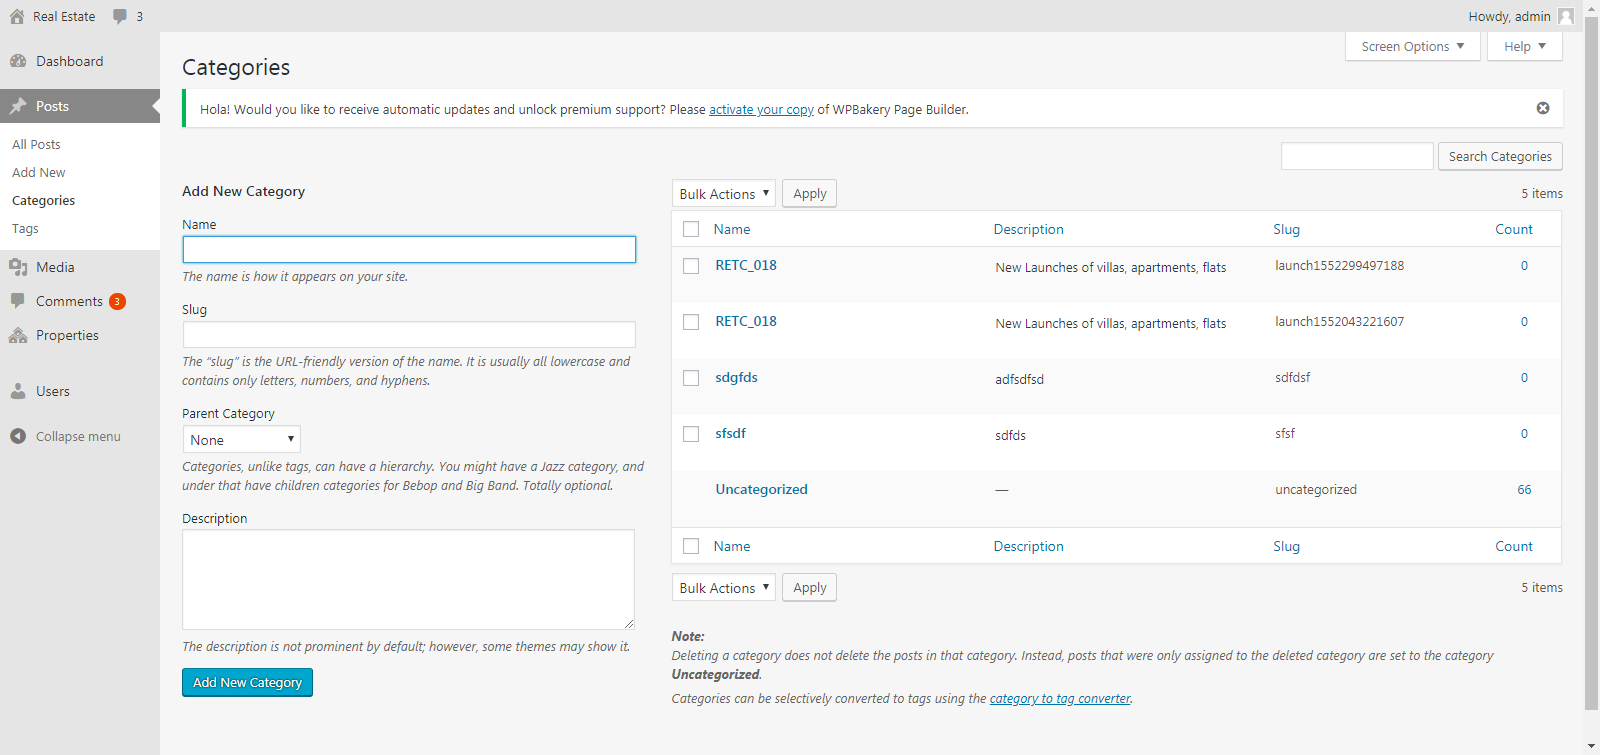
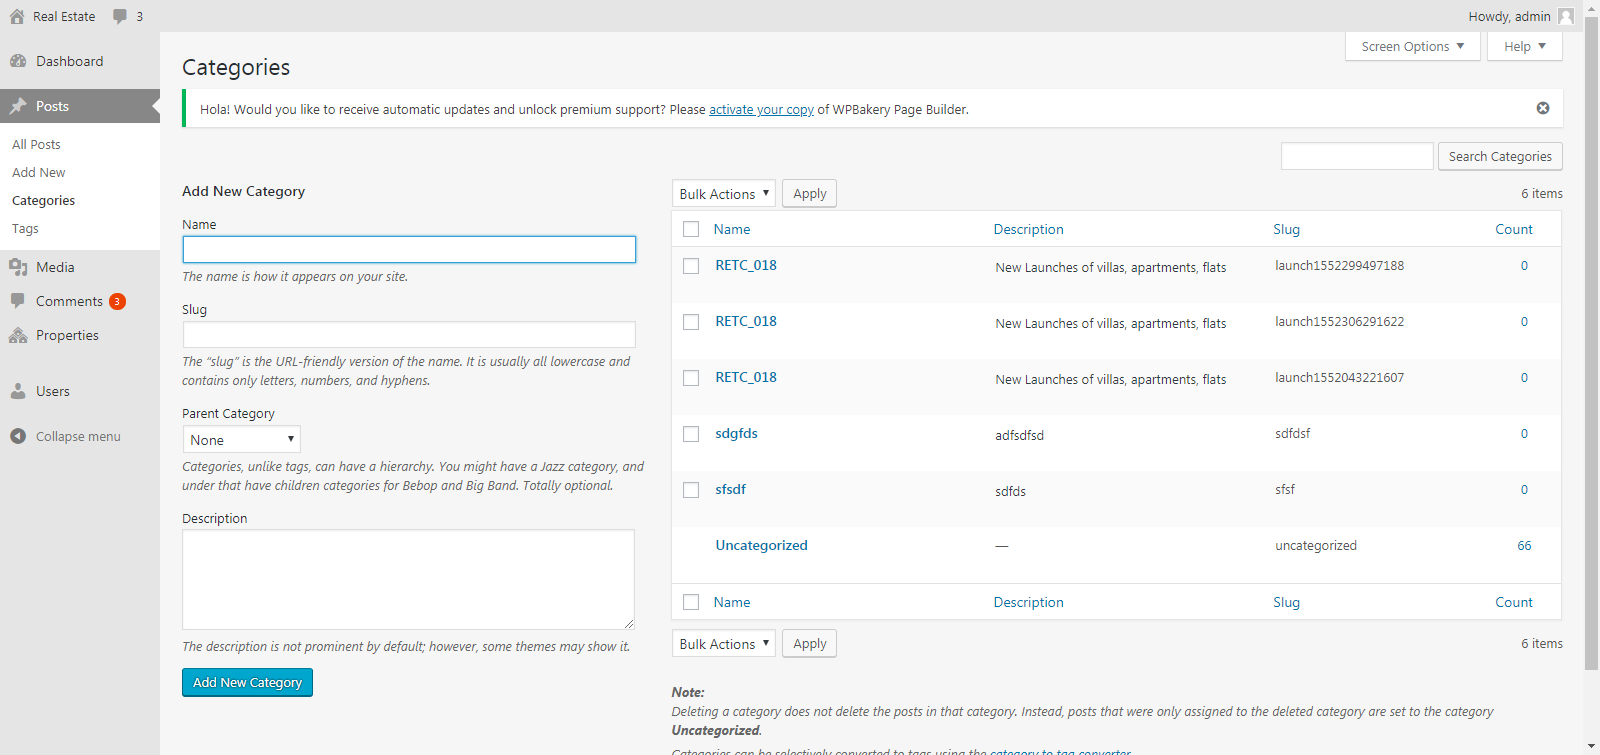
Updated after 1st run

diff --git a/Selenium-Automation-Elearning-Framework-TestNG/report/RETC_018.html b/Selenium-Automation-Elearning-Framework-TestNG/report/RETC_018.html
@@ -53,7 +53,7 @@
 					<i class='mdi-hardware-desktop-windows'></i>
 				</li>
 				<li>
-					<span class='suite-started-time'>2019-03-11 15:48:23</span>
+					<span class='suite-started-time'>2019-03-11 17:41:37</span>
 				</li>
 				<li>
 					<span>v2.41.1</span>
@@ -83,25 +83,25 @@
 					<div class='col l2 m4 s12'>
 						<div class='card suite-total-time-current'> 
 							<span class='panel-name'>Total Time Taken (Current Run)</span> 
-							<span class='suite-total-time-current-value panel-lead'>0h 0m 49s+286ms</span> 
+							<span class='suite-total-time-current-value panel-lead'>0h 0m 55s+555ms</span> 
 						</div> 
 					</div>
 					<div class='col l2 m4 s12'>
 						<div class='card suite-total-time-overall'> 
 							<span class='panel-name'>Total Time Taken (Overall)</span> 
-							<span class='suite-total-time-overall-value panel-lead'>0h 0m 49s+286ms</span> 
+							<span class='suite-total-time-overall-value panel-lead'>0h 0m 55s+555ms</span> 
 						</div> 
 					</div>
 					<div class='col l2 m4 s6 suite-start-time'>
 						<div class='card accent green-accent'> 
 							<span class='panel-name'>Start</span> 
-							<span class='panel-lead suite-started-time'>2019-03-11 15:47:34</span> 
+							<span class='panel-lead suite-started-time'>2019-03-11 17:40:41</span> 
 						</div> 
 					</div>
 					<div class='col l2 m4 s6 suite-end-time'>
 						<div class='card accent pink-accent'> 
 							<span class='panel-name'>End</span> 
-							<span class='panel-lead suite-ended-time'>2019-03-11 15:48:23</span> 
+							<span class='panel-lead suite-ended-time'>2019-03-11 17:41:37</span> 
 						</div> 
 					</div>
 				</div>
@@ -237,7 +237,7 @@
 						<div class='card-panel no-padding-h no-padding-v no-margin-v'>
 							<div class='wrapper'>
 								<ul id='test-collection' class='test-collection'>
-										<li class='collection-item test displayed active pass ' extentid='384439d2-22c4-4eec-b858-bcebeaefe08c'>
+										<li class='collection-item test displayed active pass ' extentid='b585d45a-8aa6-458b-ac5f-d1e737df6378'>
 											<div class='test-head'>
 												<span class='test-name'>Test Case name: RETC_018 </span>
 												<span class='test-status label right outline capitalize pass'>pass</span>
@@ -245,9 +245,9 @@
 											</div>
 											<div class='test-body'>
 												<div class='test-info'>
-													<span title='Test started time' alt='Test started time' class='test-started-time label green lighten-1 text-white'>2019-03-11 15:47:34</span>
-													<span title='Test ended time' alt='Test ended time' class='test-ended-time label red lighten-1 text-white'>2019-03-11 15:48:23</span>
-													<span title='Time taken to finish' alt='Time taken to finish' class='test-time-taken label blue-grey lighten-3 text-white'>0h 0m 48s+907ms</span>
+													<span title='Test started time' alt='Test started time' class='test-started-time label green lighten-1 text-white'>2019-03-11 17:40:41</span>
+													<span title='Test ended time' alt='Test ended time' class='test-ended-time label red lighten-1 text-white'>2019-03-11 17:41:36</span>
+													<span title='Time taken to finish' alt='Time taken to finish' class='test-time-taken label blue-grey lighten-3 text-white'>0h 0m 55s+181ms</span>
 												</div>
 												<div class='test-desc'></div>
 												<div class='test-attributes'>
@@ -265,73 +265,73 @@
 														<tbody>
 																<tr>
 																	<td class='status info' title='info' alt='info'><i class='mdi-action-info-outline'></i></td>
-																	<td class='timestamp'>15:47:57</td>
+																	<td class='timestamp'>17:41:09</td>
 																		<td class='step-name'>Pre-Condition 1:</td>
 																	<td class='step-details'>User launched the application by entering valid URL</td>
 																</tr>
 																<tr>
 																	<td class='status info' title='info' alt='info'><i class='mdi-action-info-outline'></i></td>
-																	<td class='timestamp'>15:48:06</td>
+																	<td class='timestamp'>17:41:17</td>
 																		<td class='step-name'>Pre-Condition 2:</td>
 																	<td class='step-details'>Admin logged in.</td>
 																</tr>
 																<tr>
 																	<td class='status info' title='info' alt='info'><i class='mdi-action-info-outline'></i></td>
-																	<td class='timestamp'>15:48:12</td>
+																	<td class='timestamp'>17:41:25</td>
 																		<td class='step-name'>Test Step 1.</td>
 																	<td class='step-details'>Clicked on Posts link</td>
 																</tr>
 																<tr>
 																	<td class='status info' title='info' alt='info'><i class='mdi-action-info-outline'></i></td>
-																	<td class='timestamp'>15:48:16</td>
+																	<td class='timestamp'>17:41:30</td>
 																		<td class='step-name'>Test Step 2.</td>
 																	<td class='step-details'>Clicked on Categories link</td>
 																</tr>
 																<tr>
 																	<td class='status info' title='info' alt='info'><i class='mdi-action-info-outline'></i></td>
-																	<td class='timestamp'>15:48:16</td>
+																	<td class='timestamp'>17:41:31</td>
 																		<td class='step-name'>No. of items before Adding Category</td>
-																	<td class='step-details'>4 items</td>
+																	<td class='step-details'>5 items</td>
 																</tr>
 																<tr>
 																	<td class='status info' title='info' alt='info'><i class='mdi-action-info-outline'></i></td>
-																	<td class='timestamp'>15:48:17</td>
+																	<td class='timestamp'>17:41:31</td>
 																		<td class='step-name'>Test Step 3.</td>
 																	<td class='step-details'>Entered Valid Credentials in Name textbox</td>
 																</tr>
 																<tr>
 																	<td class='status info' title='info' alt='info'><i class='mdi-action-info-outline'></i></td>
-																	<td class='timestamp'>15:48:17</td>
+																	<td class='timestamp'>17:41:31</td>
 																		<td class='step-name'>Test Step 4.</td>
 																	<td class='step-details'>Entered Valid Credentials in Slug textbox</td>
 																</tr>
 																<tr>
 																	<td class='status info' title='info' alt='info'><i class='mdi-action-info-outline'></i></td>
-																	<td class='timestamp'>15:48:19</td>
+																	<td class='timestamp'>17:41:34</td>
 																		<td class='step-name'>Test Step 5.</td>
 																	<td class='step-details'>Entered Valid Credentials in Description textbox</td>
 																</tr>
 																<tr>
 																	<td class='status info' title='info' alt='info'><i class='mdi-action-info-outline'></i></td>
-																	<td class='timestamp'>15:48:20</td>
+																	<td class='timestamp'>17:41:34</td>
 																		<td class='step-name'>Test Step 6.</td>
 																	<td class='step-details'>Clicked on Add New Category button</td>
 																</tr>
 																<tr>
 																	<td class='status info' title='info' alt='info'><i class='mdi-action-info-outline'></i></td>
-																	<td class='timestamp'>15:48:22</td>
+																	<td class='timestamp'>17:41:35</td>
 																		<td class='step-name'>Refresh Page</td>
 																	<td class='step-details'>Refreshed page to get added category on the table</td>
 																</tr>
 																<tr>
 																	<td class='status info' title='info' alt='info'><i class='mdi-action-info-outline'></i></td>
-																	<td class='timestamp'>15:48:22</td>
+																	<td class='timestamp'>17:41:35</td>
 																		<td class='step-name'>No. of items after Adding Category</td>
-																	<td class='step-details'>5 items</td>
+																	<td class='step-details'>6 items</td>
 																</tr>
 																<tr>
 																	<td class='status pass' title='pass' alt='pass'><i class='mdi-action-check-circle'></i></td>
-																	<td class='timestamp'>15:48:22</td>
+																	<td class='timestamp'>17:41:36</td>
 																		<td class='step-name'>Test Passed</td>
 																	<td class='step-details'>Added category in existing categories module is displayed</td>
 																</tr>

diff --git a/Selenium-Automation-Elearning-Framework-TestNG/test-output/index.html b/Selenium-Automation-Elearning-Framework-TestNG/test-output/index.html
@@ -49,7 +49,7 @@
               <ul>
                 <li>
                   <a href="#" class="navigator-link " panel-name="test-xml-Default_suite">
-                    <span>C:\Users\IBM_ADMIN\AppData\Local\Temp\testng-eclipse-678091908\testng-customsuite.xml</span>
+                    <span>C:\Users\IBM_ADMIN\AppData\Local\Temp\testng-eclipse--1451025380\testng-customsuite.xml</span>
                   </a> <!-- navigator-link  -->
                 </li>
                 <li>
@@ -135,7 +135,7 @@
         </div> <!-- panel Default_suite -->
         <div panel-name="test-xml-Default_suite" class="panel">
           <div class="main-panel-header rounded-window-top">
-            <span class="header-content">C:\Users\IBM_ADMIN\AppData\Local\Temp\testng-eclipse-678091908\testng-customsuite.xml</span>
+            <span class="header-content">C:\Users\IBM_ADMIN\AppData\Local\Temp\testng-eclipse--1451025380\testng-customsuite.xml</span>
           </div> <!-- main-panel-header rounded-window-top -->
           <div class="main-panel-content rounded-window-bottom">
             <pre>
@@ -188,12 +188,12 @@ data.addRows(1);
 data.setCell(0, 0, 0)
 data.setCell(0, 1, 'Functional_Test_RETC_018')
 data.setCell(0, 2, 'com.training.functional.tests.RETC_018')
-data.setCell(0, 3, 16343);
+data.setCell(0, 3, 18991);
 window.suiteTableData['Default_suite']= { tableData: data, tableDiv: 'times-div-Default_suite'}
 return data;
 }
               </script>
-              <span class="suite-total-time">Total running time: 16 seconds</span>
+              <span class="suite-total-time">Total running time: 18 seconds</span>
               <div id="times-div-Default_suite">
               </div> <!-- times-div-Default_suite -->
             </div> <!-- times-div -->
@@ -226,11 +226,11 @@ return data;
               </div> <!-- configuration-test before -->
               <div class="test-method">
                 <span class="method-name">Functional_Test_RETC_018</span>
-                <span class="method-start">37357 ms</span>
+                <span class="method-start">40283 ms</span>
               </div> <!-- test-method -->
               <div class="configuration-test after">
                 <span class="method-name">tearDown</span>
-                <span class="method-start">53700 ms</span>
+                <span class="method-start">59290 ms</span>
               </div> <!-- configuration-test after -->
           </div> <!-- main-panel-content rounded-window-bottom -->
         </div> <!-- panel -->

diff --git a/Selenium-Automation-Elearning-Framework-TestNG/test-output/old/Default suite/methods-alphabetical.html b/Selenium-Automation-Elearning-Framework-TestNG/test-output/old/Default suite/methods-alphabetical.html
@@ -1,10 +1,10 @@
 <h2>Methods run, sorted chronologically</h2><h3>&gt;&gt; means before, &lt;&lt; means after</h3><p/><br/><em>Default suite</em><p/><small><i>(Hover the method name to see the test class name)</i></small><p/>
 <table border="1">
 <tr><th>Time</th><th>Delta (ms)</th><th>Suite<br>configuration</th><th>Test<br>configuration</th><th>Class<br>configuration</th><th>Groups<br>configuration</th><th>Method<br>configuration</th><th>Test<br>method</th><th>Thread</th><th>Instances</th></tr>
-<tr bgcolor="756ead">  <td>19/03/11 15:48:07</td>   <td>0</td> <td>&nbsp;</td><td>&nbsp;</td><td>&nbsp;</td><td>&nbsp;</td><td>&nbsp;</td><td title="RETC_018.Functional_Test_RETC_018()[pri:0, instance:com.training.functional.tests.RETC_018@6a41eaa2]">Functional_Test_RETC_018</td> 
+<tr bgcolor="756ead">  <td>19/03/11 17:41:18</td>   <td>0</td> <td>&nbsp;</td><td>&nbsp;</td><td>&nbsp;</td><td>&nbsp;</td><td>&nbsp;</td><td title="RETC_018.Functional_Test_RETC_018()[pri:0, instance:com.training.functional.tests.RETC_018@6a41eaa2]">Functional_Test_RETC_018</td> 
   <td>main@1776957250</td>   <td></td> </tr>
-<tr bgcolor="756ead">  <td>19/03/11 15:47:29</td>   <td>-37341</td> <td>&nbsp;</td><td title="&gt;&gt;RETC_018.setUp()[pri:0, instance:com.training.functional.tests.RETC_018@6a41eaa2]">&gt;&gt;setUp</td> 
+<tr bgcolor="756ead">  <td>19/03/11 17:40:37</td>   <td>-40267</td> <td>&nbsp;</td><td title="&gt;&gt;RETC_018.setUp()[pri:0, instance:com.training.functional.tests.RETC_018@6a41eaa2]">&gt;&gt;setUp</td> 
 <td>&nbsp;</td><td>&nbsp;</td><td>&nbsp;</td><td>&nbsp;</td>  <td>main@1776957250</td>   <td></td> </tr>
-<tr bgcolor="756ead">  <td>19/03/11 15:48:23</td>   <td>16343</td> <td>&nbsp;</td><td title="&lt;&lt;RETC_018.tearDown()[pri:0, instance:com.training.functional.tests.RETC_018@6a41eaa2]">&lt;&lt;tearDown</td> 
+<tr bgcolor="756ead">  <td>19/03/11 17:41:37</td>   <td>19007</td> <td>&nbsp;</td><td title="&lt;&lt;RETC_018.tearDown()[pri:0, instance:com.training.functional.tests.RETC_018@6a41eaa2]">&lt;&lt;tearDown</td> 
 <td>&nbsp;</td><td>&nbsp;</td><td>&nbsp;</td><td>&nbsp;</td>  <td>main@1776957250</td>   <td></td> </tr>
 </table>

diff --git a/Selenium-Automation-Elearning-Framework-TestNG/test-output/old/Default suite/methods.html b/Selenium-Automation-Elearning-Framework-TestNG/test-output/old/Default suite/methods.html
@@ -1,10 +1,10 @@
 <h2>Methods run, sorted chronologically</h2><h3>&gt;&gt; means before, &lt;&lt; means after</h3><p/><br/><em>Default suite</em><p/><small><i>(Hover the method name to see the test class name)</i></small><p/>
 <table border="1">
 <tr><th>Time</th><th>Delta (ms)</th><th>Suite<br>configuration</th><th>Test<br>configuration</th><th>Class<br>configuration</th><th>Groups<br>configuration</th><th>Method<br>configuration</th><th>Test<br>method</th><th>Thread</th><th>Instances</th></tr>
-<tr bgcolor="756ead">  <td>19/03/11 15:47:29</td>   <td>0</td> <td>&nbsp;</td><td title="&gt;&gt;RETC_018.setUp()[pri:0, instance:com.training.functional.tests.RETC_018@6a41eaa2]">&gt;&gt;setUp</td> 
+<tr bgcolor="756ead">  <td>19/03/11 17:40:37</td>   <td>0</td> <td>&nbsp;</td><td title="&gt;&gt;RETC_018.setUp()[pri:0, instance:com.training.functional.tests.RETC_018@6a41eaa2]">&gt;&gt;setUp</td> 
 <td>&nbsp;</td><td>&nbsp;</td><td>&nbsp;</td><td>&nbsp;</td>  <td>main@1776957250</td>   <td></td> </tr>
-<tr bgcolor="756ead">  <td>19/03/11 15:48:07</td>   <td>37341</td> <td>&nbsp;</td><td>&nbsp;</td><td>&nbsp;</td><td>&nbsp;</td><td>&nbsp;</td><td title="RETC_018.Functional_Test_RETC_018()[pri:0, instance:com.training.functional.tests.RETC_018@6a41eaa2]">Functional_Test_RETC_018</td> 
+<tr bgcolor="756ead">  <td>19/03/11 17:41:18</td>   <td>40267</td> <td>&nbsp;</td><td>&nbsp;</td><td>&nbsp;</td><td>&nbsp;</td><td>&nbsp;</td><td title="RETC_018.Functional_Test_RETC_018()[pri:0, instance:com.training.functional.tests.RETC_018@6a41eaa2]">Functional_Test_RETC_018</td> 
   <td>main@1776957250</td>   <td></td> </tr>
-<tr bgcolor="756ead">  <td>19/03/11 15:48:23</td>   <td>53684</td> <td>&nbsp;</td><td title="&lt;&lt;RETC_018.tearDown()[pri:0, instance:com.training.functional.tests.RETC_018@6a41eaa2]">&lt;&lt;tearDown</td> 
+<tr bgcolor="756ead">  <td>19/03/11 17:41:37</td>   <td>59274</td> <td>&nbsp;</td><td title="&lt;&lt;RETC_018.tearDown()[pri:0, instance:com.training.functional.tests.RETC_018@6a41eaa2]">&lt;&lt;tearDown</td> 
 <td>&nbsp;</td><td>&nbsp;</td><td>&nbsp;</td><td>&nbsp;</td>  <td>main@1776957250</td>   <td></td> </tr>
 </table>

diff --git a/Selenium-Automation-Elearning-Framework-TestNG/test-output/emailable-report.html b/Selenium-Automation-Elearning-Framework-TestNG/test-output/emailable-report.html
@@ -9,9 +9,9 @@
 <table>
 <tr><th>Test</th><th># Passed</th><th># Skipped</th><th># Failed</th><th>Time (ms)</th><th>Included Groups</th><th>Excluded Groups</th></tr>
 <tr><th colspan="7">Default suite</th></tr>
-<tr><td><a href="#t0">Default test</a></td><td class="num">1</td><td class="num">0</td><td class="num">0</td><td class="num">55,845</td><td></td><td></td></tr>
+<tr><td><a href="#t0">Default test</a></td><td class="num">1</td><td class="num">0</td><td class="num">0</td><td class="num">61,366</td><td></td><td></td></tr>
 </table>
-<table id='summary'><thead><tr><th>Class</th><th>Method</th><th>Start</th><th>Time (ms)</th></tr></thead><tbody><tr><th colspan="4">Default suite</th></tr></tbody><tbody id="t0"><tr><th colspan="4">Default test &#8212; passed</th></tr><tr class="passedeven"><td rowspan="1">com.training.functional.tests.RETC_018</td><td><a href="#m0">Functional_Test_RETC_018</a></td><td rowspan="1">1552299487099</td><td rowspan="1">16343</td></tr></tbody>
+<table id='summary'><thead><tr><th>Class</th><th>Method</th><th>Start</th><th>Time (ms)</th></tr></thead><tbody><tr><th colspan="4">Default suite</th></tr></tbody><tbody id="t0"><tr><th colspan="4">Default test &#8212; passed</th></tr><tr class="passedeven"><td rowspan="1">com.training.functional.tests.RETC_018</td><td><a href="#m0">Functional_Test_RETC_018</a></td><td rowspan="1">1552306278095</td><td rowspan="1">18991</td></tr></tbody>
 </table>
 <h2>Default test</h2><h3 id="m0">com.training.functional.tests.RETC_018#Functional_Test_RETC_018</h3><table class="result"><tr><th class="invisible"/></tr></table><p class="totop"><a href="#summary">back to summary</a></p>
 </body>

diff --git a/Selenium-Automation-Elearning-Framework-TestNG/test-output/Default suite/Default test.html b/Selenium-Automation-Elearning-Framework-TestNG/test-output/Default suite/Default test.html
@@ -57,9 +57,9 @@ function toggleAllBoxes() {
 <tr>
 <td>Tests passed/Failed/Skipped:</td><td>1/0/0</td>
 </tr><tr>
-<td>Started on:</td><td>Mon Mar 11 15:47:29 IST 2019</td>
+<td>Started on:</td><td>Mon Mar 11 17:40:37 IST 2019</td>
 </tr>
-<tr><td>Total time:</td><td>55 seconds (55845 ms)</td>
+<tr><td>Total time:</td><td>61 seconds (61366 ms)</td>
 </tr><tr>
 <td>Included groups:</td><td></td>
 </tr><tr>
@@ -77,7 +77,7 @@ function toggleAllBoxes() {
 <tr>
 <td title='com.training.functional.tests.RETC_018.Functional_Test_RETC_018()'><b>Functional_Test_RETC_018</b><br>Test class: com.training.functional.tests.RETC_018</td>
 <td></td>
-<td>16</td>
+<td>18</td>
 <td>com.training.functional.tests.RETC_018@6a41eaa2</td></tr>
 </table><p>
 </body>
